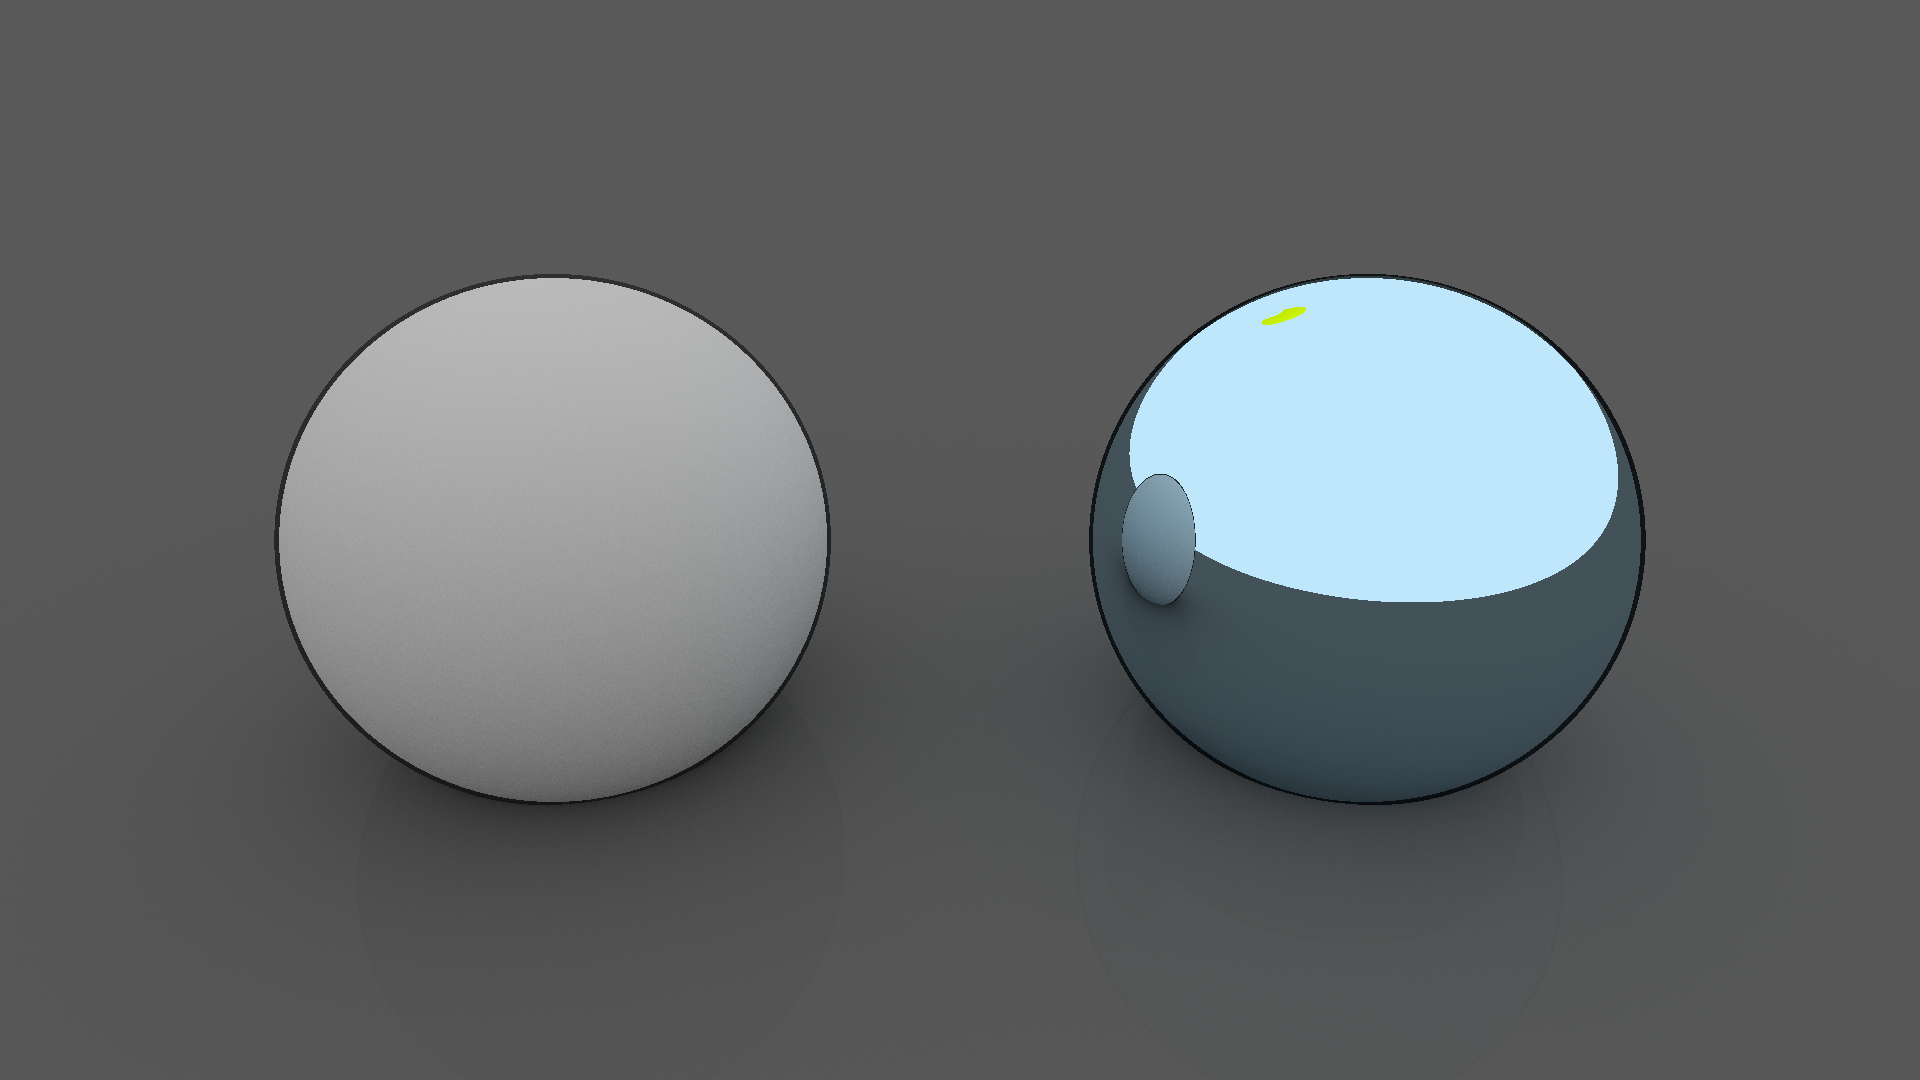
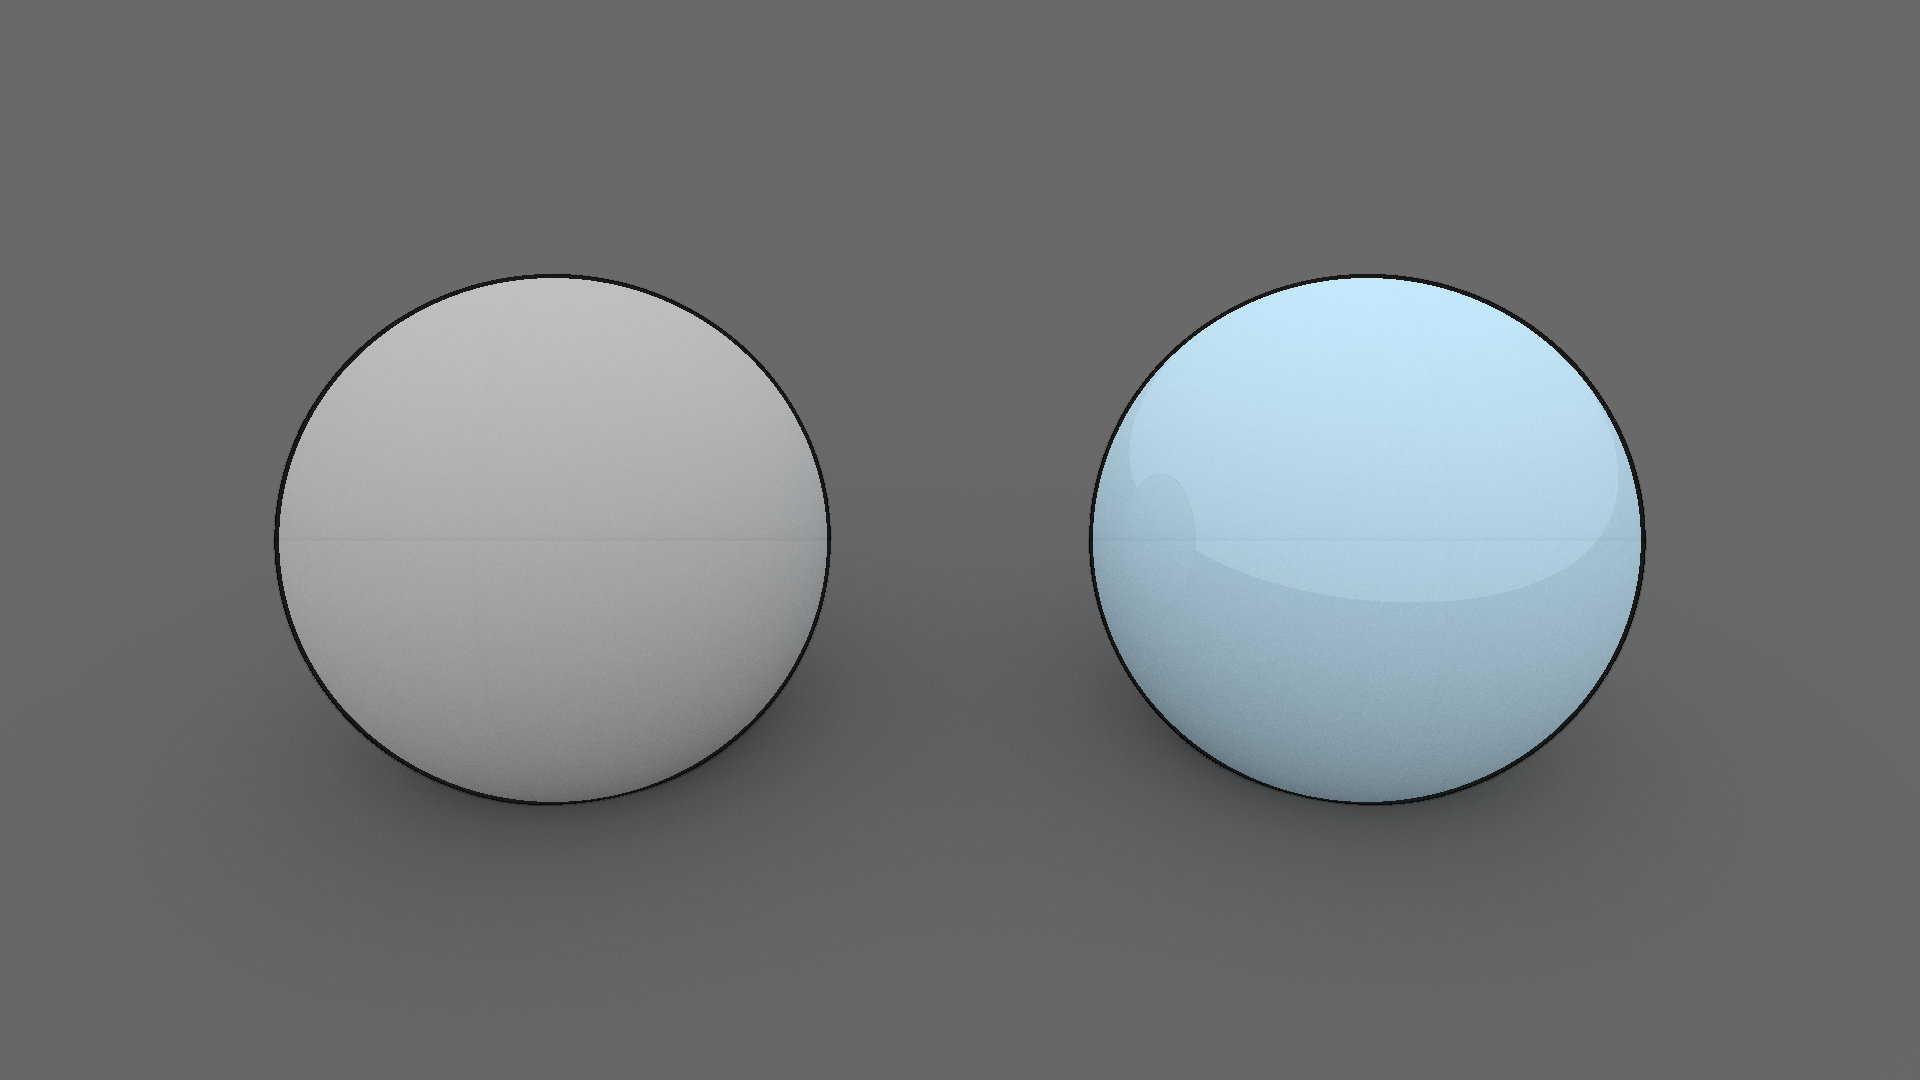
Fixed Cargo.toml, improved filter pass

Changed region(s): [[0.5625, 0.3667, 0.875, 0.7639], [0.6562, 0.275, 0.6875, 0.3056]]

diff --git a/src/main.rs b/src/main.rs
@@ -1,7 +1,6 @@
 extern crate nalgebra;
 extern crate image;
 extern crate rand;
-extern crate cpuprofiler;
 extern crate crossbeam;
 extern crate imageproc;
 
@@ -13,7 +12,7 @@ use std::sync::{Arc, Mutex};
 use std::time::Instant;
 
 use nalgebra::Vector3;
-use image::{DynamicImage, GenericImage, Pixel, Rgba};
+use image::{DynamicImage, GenericImage, ImageBuffer, Pixel, Rgba};
 use rand::distributions::{IndependentSample, Range};
 
 const GAMMA: f32 = 2.2;
@@ -440,8 +439,8 @@ impl Scene {
             .filter_map(|s| s.intersect(ray).map(|d| Intersection::new(d, s, ray)))
             .min_by(|i1, i2| i1.distance.partial_cmp(&i2.distance).unwrap())
     }
-
-    pub fn cast_ray(&self, ray: &Ray, depth: u64) -> Color {
+    // returns color of final object and the normal
+    pub fn cast_ray(&self, ray: &Ray, depth: u64) -> (Color, Color) {
         let intersection_option = self.trace(ray);
         match intersection_option {
             Some(intersection) => {
@@ -470,19 +469,24 @@ impl Scene {
                     if (between.ind_sample(&mut rng) as f32) < p {
                         color = objcolor * (1.0 / p)
                     } else {
-                        return emission;
+                        return (emission, Color::black());
                     }
                 } else {
                     color = objcolor;
                 };
                 // check if intersected with edge
                 if intersection.object.intersect_edge(&ray) {
-                    color = color * 0.05;
+                    color = Color::black();
                 }
 
                 // calculate normal
                 let normal = intersection.object.surface_normal(&intersection.hit_point);
                 let oriented_normal = orient_normal(&normal, &ray);
+                let normal_as_color = Color {
+                    red: normal.x as f32,
+                    green: normal.y as f32,
+                    blue: normal.z as f32,
+                };
 
                 match material.material_type {
                     MaterialType::Diffuse => {
@@ -502,7 +506,7 @@ impl Scene {
                         };
                         let reflected_color = self.cast_ray(&reflected_ray, depth + 1);
 
-                        emission + color * reflected_color
+                        (emission + color * reflected_color.0, normal_as_color)
                     }
                     MaterialType::Specular => {
                         let reflected_ray = Ray {
@@ -510,7 +514,7 @@ impl Scene {
                             origin: intersection.hit_point + (oriented_normal * self.bias),
                         };
                         let reflected_color = self.cast_ray(&reflected_ray, depth + 1);
-                        emission + color * reflected_color
+                        (emission + color * reflected_color.0, normal_as_color)
                     }
                     MaterialType::Metal => {
                         let phi = 2.0 * f64::consts::PI * between.ind_sample(&mut rng);
@@ -532,11 +536,11 @@ impl Scene {
                         };
 
                         let reflected_color = self.cast_ray(&reflected_ray, depth + 1);
-                        emission + color * reflected_color
+                        (emission + color * reflected_color.0, normal_as_color)
                     }
                     MaterialType::Coat => {
                         let random_float = between.ind_sample(&mut rng);
-                        let threshold = 0.05;
+                        let threshold = 0.1;
                         let reflect_from_surface = random_float < threshold;
                         if reflect_from_surface {
                             let reflected_ray = Ray {
@@ -545,7 +549,7 @@ impl Scene {
                                 origin: intersection.hit_point + (oriented_normal * self.bias),
                             };
                             let reflected_color = self.cast_ray(&reflected_ray, depth + 1);
-                            emission + color * reflected_color
+                            (emission + color * reflected_color.0, normal_as_color)
                         } else {
                             let r1 = 2.0 * f64::consts::PI * between.ind_sample(&mut rng);
                             let r2 = between.ind_sample(&mut rng);
@@ -563,35 +567,39 @@ impl Scene {
                             };
                             let reflected_color = self.cast_ray(&reflected_ray, depth + 1);
 
-                            emission + color * reflected_color
+                            (emission + color * reflected_color.0, normal_as_color)
                         }
                     }
                 }
             }
-            None => Color::white(),
+            None => (Color::white(), Color::black()),
         }
     }
 
-    fn render_pixel(&self, x: u32, y: u32) -> Color {
+    fn render_pixel(&self, x: u32, y: u32) -> (Color, Color) {
         let mut final_color = Color::black();
+        let mut normal = Color::black();
         for _ in 0..self.samples {
             let ray = Ray::create_prime(x, y, self);
-            final_color = final_color + self.cast_ray(&ray, 0);
+            let casted_ray_val = self.cast_ray(&ray, 0);
+            final_color = final_color + casted_ray_val.0;
+            normal = normal + casted_ray_val.1;
         }
-        final_color / self.samples
+        (final_color / self.samples, normal / self.samples)
     }
 
     pub fn render(&self) -> DynamicImage {
         // create progress bar
         let total_pixels = self.width * self.height;
         // pixel_data stores the position and color of each pixel
-        let pixel_data: Arc<Mutex<Vec<(u32, u32, Color)>>> =
+        let pixel_data: Arc<Mutex<Vec<(u32, u32, (Color, Color))>>> =
             Arc::new(Mutex::new(Vec::with_capacity(total_pixels as usize)));
 
         crossbeam::scope(|scope| for x in 0..self.width {
             let pixel_data = Arc::clone(&pixel_data);
             scope.spawn(move || {
-                let mut row: Vec<(u32, u32, Color)> = Vec::with_capacity(self.height as usize);
+                let mut row: Vec<(u32, u32, (Color, Color))> =
+                    Vec::with_capacity(self.height as usize);
                 for y in 0..self.height {
                     // render pixel
                     let color = self.render_pixel(x, y);
@@ -601,19 +609,55 @@ impl Scene {
                 // increase progress bar
             });
         });
-        let mut image = DynamicImage::new_rgb8(self.width, self.height);
+        let mut colors = DynamicImage::new_rgb8(self.width, self.height);
+        let mut normal_image = DynamicImage::new_rgb8(self.width, self.height);
         let pixel_data = pixel_data.lock().unwrap();
-        for &(x, y, color) in pixel_data.iter() {
-            image.put_pixel(x, y, color.to_rgba());
+        for &(x, y, (color, normal)) in pixel_data.iter() {
+            colors.put_pixel(x, y, color.to_rgba());
+            normal_image.put_pixel(x, y, normal.to_rgba());
         }
-        image
+        // now time for processing
+        let mut gradient = imageproc::gradients::sobel_gradients(&normal_image.to_luma());
+        // convert gradient from ImageBuffer<u16> to ImageBuffer<u8>
+        let mut tmp_gradient: image::ImageBuffer<image::Luma<u8>, std::vec::Vec<u8>> =
+            ImageBuffer::new(self.width, self.height);
+        for x in 0..self.width {
+            for y in 0..self.height {
+                let u16_pixel = gradient.get_pixel(x, y);
+                let channels = u16_pixel.channels4();
+                let u8_pixel = image::Luma::from_channels(
+                    channels.0 as u8,
+                    channels.1 as u8,
+                    channels.2 as u8,
+                    channels.3 as u8,
+                );
+                tmp_gradient.put_pixel(x, y, u8_pixel);
+            }
+        }
+        let mut gradient = image::ImageRgb8(image::ImageLuma8(tmp_gradient).to_rgb());
+        gradient.invert();
+
+        // add all layers together
+        let mut final_image = DynamicImage::new_rgb8(self.width, self.height);
+        for x in 0..self.width {
+            for y in 0..self.height {
+                    let final_pixel_color = imageproc::pixelops::weighted_sum(
+                        colors.get_pixel(x, y),
+                        gradient.get_pixel(x, y),
+                        0.9,
+                        0.1,
+                    );
+                final_image.put_pixel(x, y, final_pixel_color)
+            }
+        }
+        final_image
     }
 }
 
 fn main() {
     let scene = Scene {
-        width: 1920,
-        height: 1080,
+        width: 7680,
+        height: 4320,
         fov: 45.0,
         objects: vec![
             // black sphere
@@ -635,7 +679,7 @@ fn main() {
                     material: Material {
                         color: Color::new(0.529411764706, 0.807843137255, 0.980392156863),
                         emission: Color::black(),
-                        material_type: MaterialType::Specular,
+                        material_type: MaterialType::Coat,
                     },
                     edge_size: 0.015,
                 },
@@ -648,7 +692,7 @@ fn main() {
                     material: Material {
                         color: Color::white() * 0.1,
                         emission: Color::black(),
-                        material_type: MaterialType::Coat,
+                        material_type: MaterialType::Diffuse,
                     },
                 },
             ),
@@ -680,6 +724,8 @@ fn main() {
     let now = Instant::now();
     let img: DynamicImage = scene.render();
     println!("Completed in {} seconds.", now.elapsed().as_secs());
+
+
 
     let file_name = "render_test1.png";
     let ref mut fout = File::create(&Path::new(&file_name)).unwrap();
